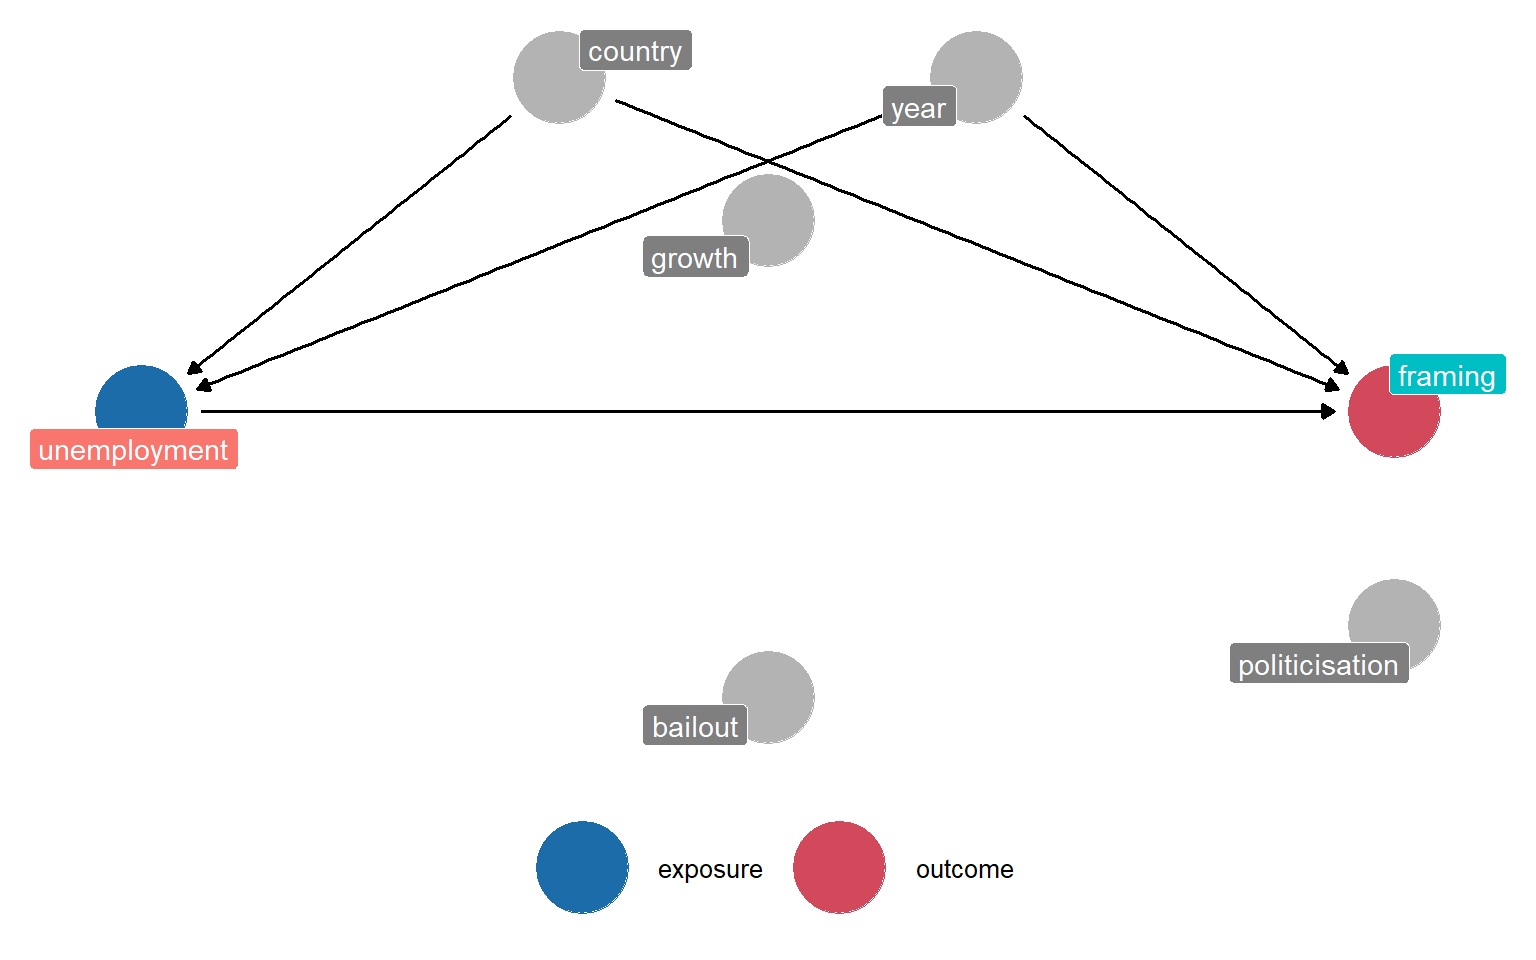
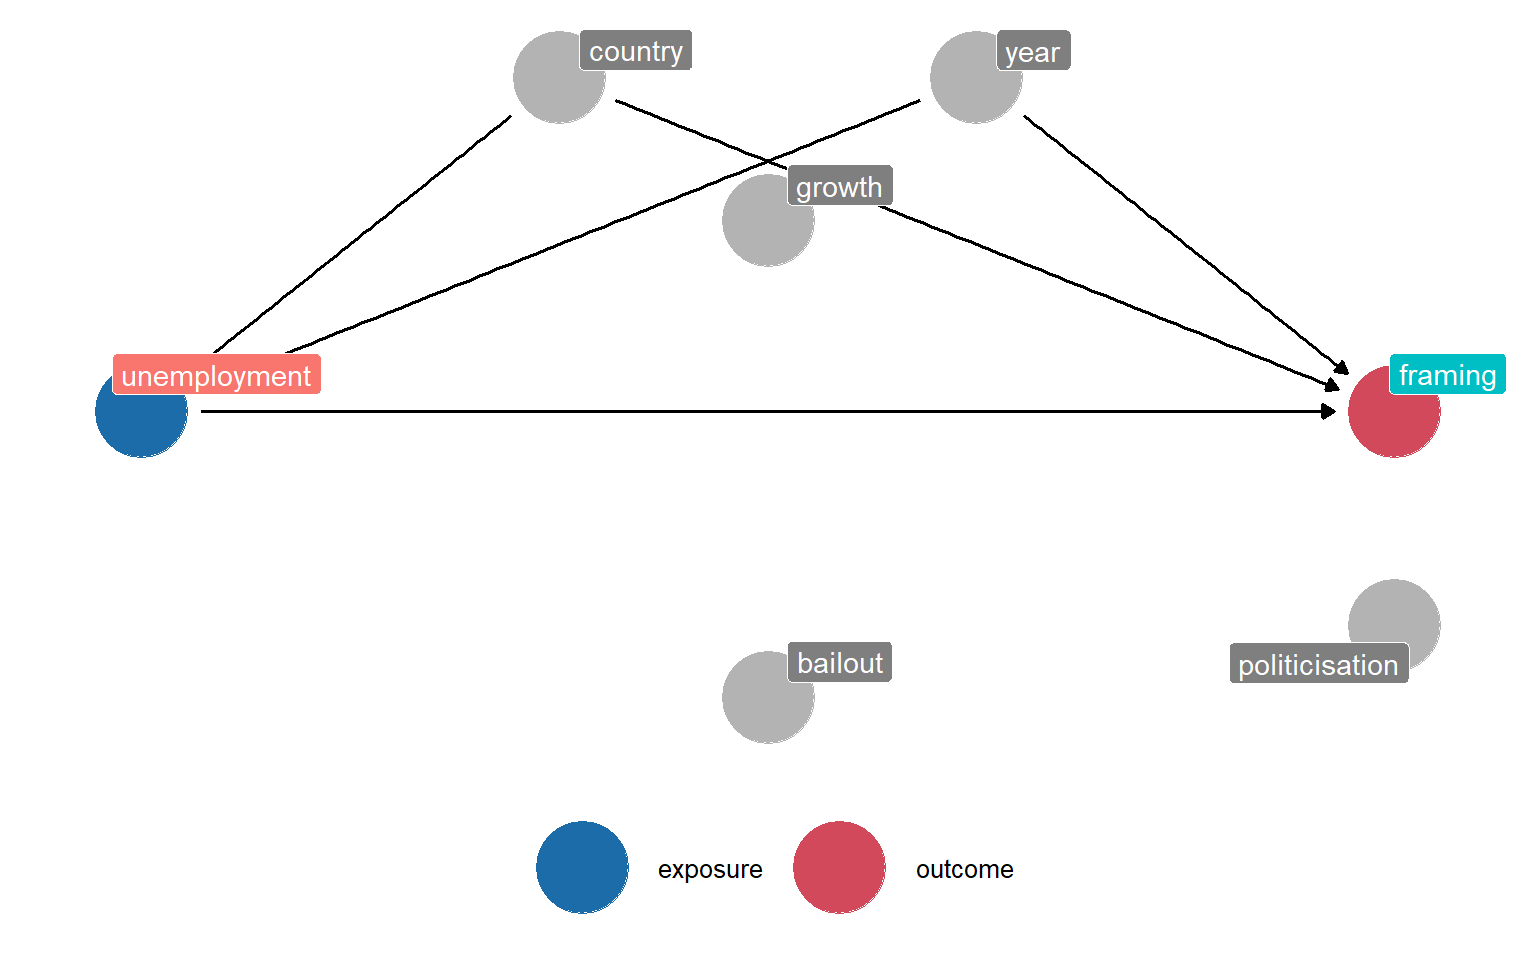
Update report flow to live Form/Multiverse; text polish

diff --git a/README.md b/README.md
@@ -1,34 +1,39 @@
-# Replication lab – Teney (2016)
+# Replication lab
 
-**What is this?** A ready-to-run replication exercise for the workshop "Applied replication for data skills" (Open Research Conference, Newcastle University, 16 June 2026). You take the seat of "analyst no. 6" in a published *Nature* study (Aczel et al. 2026, the Multi100 project) and test the robustness of a real claim from Teney (2016) – using the same data, tools, and workflow the project used. The report you build (`index.qmd`) renders to a website you publish yourself; every task is a small, committable step that doubles as a git lesson.
+## **What is this?** 
+
+A ready-to-run replication exercise for the workshop "Applied replication for data skills" (Open Research Conference, Newcastle University, 16 June 2026). You reproduce one of the reanalyses that were part of the Multi100 project, whose results were recently published in *Nature* (Aczel et al. 2026), and test the robustness of a published claim from Teney (2016) – using the same data, tools, and workflow the Multi100 project used. The report you build (`index.qmd`) renders to a website you publish yourself; every task is a small, git-committable step that doubles as a git lesson.
 
 > The template renders out of the box: the data ship inside `data/`, so your very first `quarto preview` works with no edits and no network.
 
----
+------------------------------------------------------------------------
 
 ## In the room: three steps
 
-1. **Make it yours.** On this template's GitHub page, click the green **Use this template → Create a new repository**. Name it `replication-lab`, set it to **Public** (public repos get free Pages and free Actions minutes – and you keep a portfolio piece), and create it under *your own* account.
+1.  **Make it yours.** On this template's GitHub page, click the green **Use this template → Create a new repository**. Name it `replication-lab`, set it to **Public** (public repos get free Pages and free Actions minutes – and you keep a portfolio piece), and create it under *your own* account.
 
-2. **Clone it in Positron.** In Positron: **File → New Folder from Git…**, paste your new repo's URL, and pick a local folder. Sign in to GitHub through the **Accounts** menu (browser OAuth – no tokens needed). If you have never set your git identity, run once in the terminal:
-   ```sh
-   git config --global user.name  "Your Name"
-   git config --global user.email "[email redacted]"
-   ```
+2.  **Clone it in Positron (or another IDE, but then make sure it's all optimised for R work).** In Positron: **File → New Folder from Git…**, paste your new repo's URL, and pick a local folder. Sign in to GitHub through the **Accounts** menu (browser OAuth – no tokens needed). If you have never set your git identity, run once in the terminal:
 
-3. **Preview the report.** In the Positron terminal:
-   ```sh
-   quarto preview
-   ```
-   The skeleton report opens in a browser. That is your starting point – now work through Tasks A–F inside `index.qmd`.
+    ``` sh
+    git config --global user.name  "Your Name"
+    git config --global user.email "[email redacted]"
+    ```
+
+3.  **Preview the report.** In the Positron terminal:
+
+    ``` sh
+    quarto preview
+    ```
+
+    The skeleton report opens in a browser. That is your starting point – now work through Tasks A–F inside `index.qmd`.
 
 > **Publishing (one-time):** in your repo's **Settings → Pages → Source**, choose **"GitHub Actions"**. From then on, every push rebuilds and publishes your report to `https://<your-username>.github.io/replication-lab/`, free.
 
----
+------------------------------------------------------------------------
 
 ## Skills passport
 
-Tick a box when you have done the thing – and tick it *with a commit* (edit this file, commit, push), so even the checklist teaches git. The ten boxes map to the workshop's learning objectives.
+Tick a box when you have done the thing – and tick it *with a commit* (edit this file, commit, push), so even the checklist helps you practice git. The ten boxes map to the workshop's learning objectives.
 
 - [ ] **1. The three Rs.** I can distinguish reproducibility, robustness, and replicability – and say why the distinction matters. *(Task A)*
 - [ ] **2. Repo from a template.** I created this repository from the template and cloned it in Positron. *(Steps 1–2 above)*
@@ -39,16 +44,17 @@ Tick a box when you have done the thing – and tick it *with a commit* (edit th
 - [ ] **7. Preregister before running.** I committed my analytical choice *before* running it, with a `prereg:` commit message. *(Task D2)*
 - [ ] **8. Fit and report a model.** I fitted a panel model and reported it correctly (coefficient table + standardised result row). *(Tasks D1–D2)*
 - [ ] **9. Publish a reproducible report.** I rendered the Quarto report and published it via GitHub Pages. *(Task E)*
-- [ ] **10. Locate yourself in the multiverse.** I posted my result to the Discussion thread and can place my analysis among the others. *(Task E + debrief)*
+- [ ] **10. Locate yourself in the multiverse.** I submitted my result via the `report_result()` link and can see my dot on the live multiverse among the others. *(Task E + debrief)*
 
----
+------------------------------------------------------------------------
 
 ## Links
 
 - **Workshop site:** https://codemoreh.github.io/applied-replication/
-- **Results board (Discussion thread):** https://github.com/CodeMoreh/applied-replication/discussions – paste your `report_result()` line and your repo URL here.
+- **Submit your result:** run `report_result()` – it prints a one-click link that drops your result onto the live multiverse at https://codemoreh.github.io/applied-replication/results.html
+- **Discussion (help & repo-URL gallery):** https://github.com/CodeMoreh/applied-replication/discussions – post your repository URL here, and ask for help if you get stuck.
 - **The OSF analyst fork (Task B fetches from here):** https://osf.io/6zqct/ – the analyst's maintained fork, which adds the corrected April 2025 analysis. The official Multi100 archival record is at https://osf.io/8rtwe/.
 
----
+------------------------------------------------------------------------
 
 *Code is MIT-licensed; prose, figures, and data are CC BY 4.0 – see `LICENSE`.*